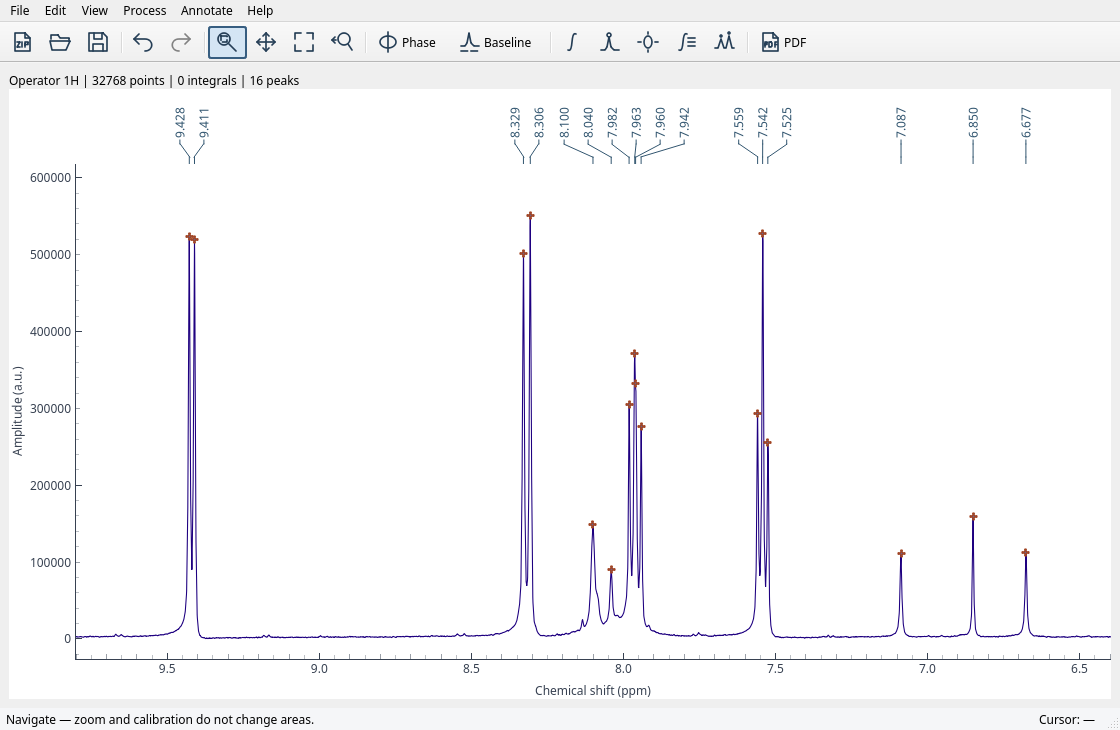
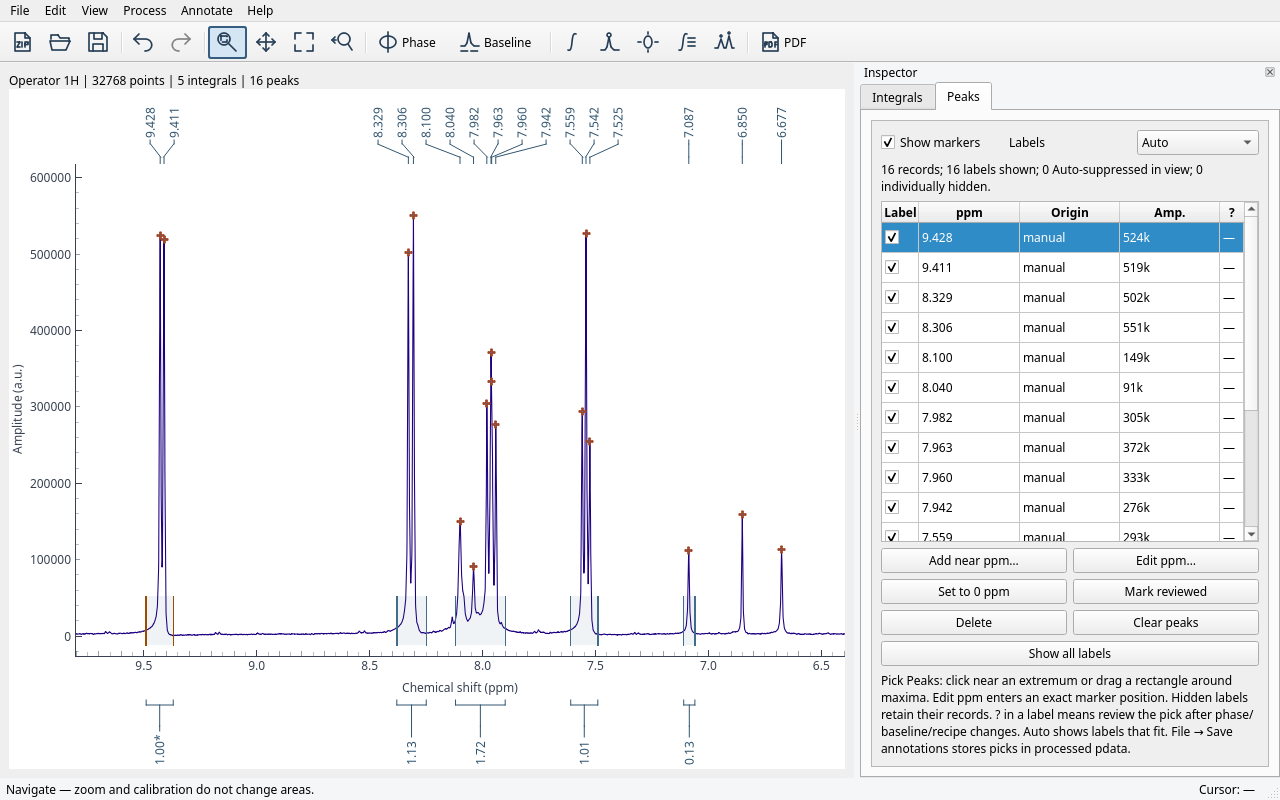
Show integrals and the Peaks table in the README

diff --git a/scripts/check_no_sensitive_data.py b/scripts/check_no_sensitive_data.py
@@ -8,7 +8,7 @@ from pathlib import PurePosixPath
 
 # Owner-approved distribution assets, pinned to their reviewed bytes.
 RELEASE_ASSETS = {
[4 lines of base64/hex data omitted]
 }

diff --git a/README.md b/README.md
@@ -4,7 +4,7 @@ NMR-go is a desktop app for working with Bruker ¹H NMR spectra. Open a ZIP or
 experiment folder, check the spectrum, integrate signals, and export a PDF.
 Created by Alexander Novichkov for everyday work at the chemistry bench.
 
-![NMR-go showing a zoomed Bruker proton spectrum with peak labels](docs/example-workbench.png)
+![NMR-go showing an enlarged spectrum with integrals, peak labels and the Peaks table](docs/example-workbench.png)
 
 ## Get started
 
